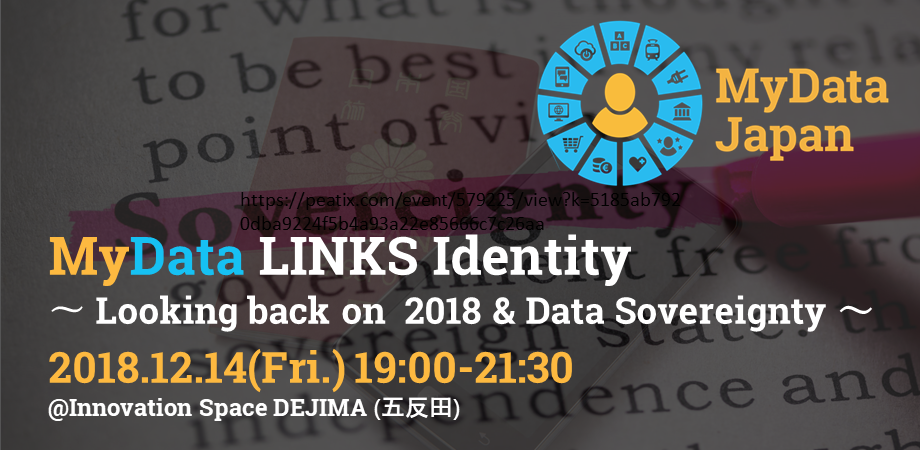
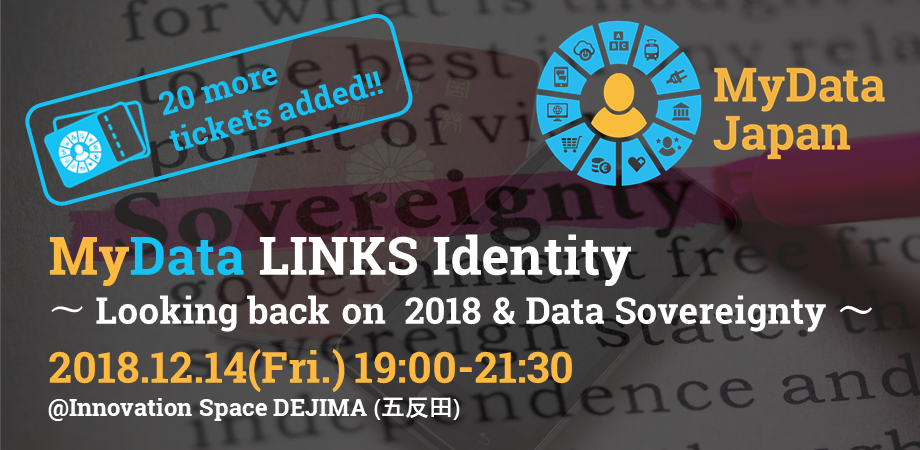
CHORES: Update event information

diff --git a/public/events/mydata-links-identity-20181214.html b/public/events/mydata-links-identity-20181214.html
@@ -137,7 +137,7 @@
                             </tr>
                             <tr>
                                 <td>定員：</td>
-                                <td>60名</td>
+                                <td><span style="text-decoration: line-through;">60名</span> → 80名</td>
                             </tr>
 
                         </table>
@@ -200,7 +200,7 @@
                                 <td> 社会課題解決のための自己証明型ID（アクセンチュア 安田クリスチーナ氏）
                                      <br> テクノロジーを社会のために ブロックチェーンの技術で、個人情報を企業から個人の元へ取り戻す
                                      <br> |DIAMOND ハーバード・ビジネス・レビュー
-                                     <br> <a href="http://テクノロジーを社会のために%20ブロックチェーンの技術で、個人情報を企業から個人の元へ取り戻す｜DIAMOND ハーバード・ビジネス・レビュー" target="_blank" rel="noopener">http://www.dhbr.net/articles/-/5146</a>
+                                     <br> <a href="http://www.dhbr.net/articles/-/5146" target="_blank" rel="noopener">http://www.dhbr.net/articles/-/5146</a>
                                 </td>
                             </tr>
                             <tr>
@@ -214,7 +214,14 @@
                             <tr>
                                 <td>21:00～</td>
                                 <td> 全員参加型Q&A
-                                    <br> オンライン（中継予定）での質問を紹介しながら、参加者からも意見を募ります。
+                                    <br> イベント全体をFacebook Liveで中継予定ですが、
+                                    <br> 随時Slidoというサービスを使い、オンラインからの参加者含めて質問や意見を募集します。
+                                    <br> この時間で、そちらに挙がった質問や意見に答えていくことを想定しています。
+                                    <br> <span style="color: red;">★Slidoへのアクセス方法（イベント開始時間以降にアクセスしてください）</span>
+                                    <br> 以下ページからイベントコード「MDJ1214」を入力しアクセス
+                                    <br> <a href="http://app.sli.do/" target="_blank" rel="noopener">app.sli.do</a>
+                                    <br> もしくは以下URLに直接アクセス
+                                    <br> <a href-"https://app2.sli.do/event/zpufn70l/questions" target="_blank" rel="noopener">https://app2.sli.do/event/zpufn70l/questions</a>
                                 </td>
                             </tr>
                             <tr>
@@ -229,7 +236,7 @@
                                 <td></td>
                             </tr>
                         </table>
-                        <p>※注意事項：時間、発表者は変更の可能性がありますのでご了承ください</p>
+                        <p><span style="color: red;">※注意事項：時間、発表者は変更の可能性がありますのでご了承ください</span></p>
 
                     </div>
                 </div>
